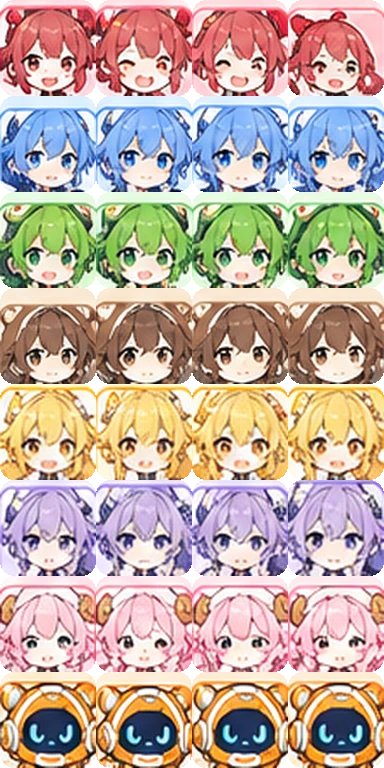
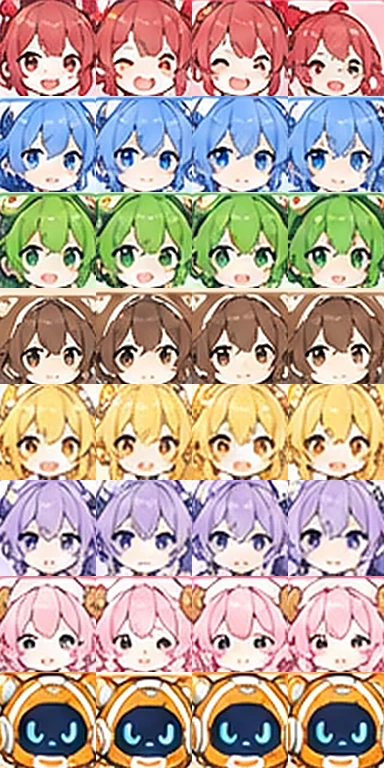
캐릭터 표정 얼굴이 깨져 보이던 것 고치기
- 표정 그림(chars_face.webp)에 섞여 있던 카드 테두리 조각을 잘라 내고 살짝 선명하게 다시 만듦
- 얼굴을 작게 그릴 때 부드럽게 줄여 그리도록(imageSmoothingQuality high)

Claude-Session: https://claude.ai/code/session_019Xjvp4u9dAV9jMhR6BEbm5

diff --git a/public/js/chars.js b/public/js/chars.js
@@ -51,13 +51,13 @@ function charImg(c, k, id, x, y, w, h) {
   const i = Math.max(0, CHARS.findIndex(ch => ch.id === id)), [cw, chh] = CHAR_CELL[k], s = Math.min(w / cw, h / chh);
   c.drawImage(CHAR_IMG[k], i * cw, 0, cw, chh, x + (w - cw * s) / 2, y + (h - chh * s) / 2, cw * s, chh * s);
 }
-// 표정(img/chars_face.webp): 캐릭터마다 한 줄에 4칸(96×96) — 0 기본 · 1 신남 · 2 아주 기쁨(승리) · 3 걱정(위험·패배)
+// 표정(img/chars_face.webp): 캐릭터마다 한 줄에 4칸(96×96, 카드 테두리 조각은 잘라 냄) — 0 기본 · 1 신남 · 2 아주 기쁨(승리) · 3 걱정(위험·패배)
 const FACE = { calm: 0, hype: 1, joy: 2, worry: 3 };
 function drawCharFace(c, id, x, y, size, expr = 0) {
   if (!charImgOk('face')) { drawChar(c, id, x, y, size, expr === 3 ? 'sad' : 'happy'); return; }
   const ch = charOf(id), i = Math.max(0, CHARS.findIndex(q => q.id === ch.id)), h = size / 2, r = size * 0.2;
   c.save(); c.beginPath(); rr(c, x - h, y - h, size, size, r); c.fillStyle = '#fff'; c.fill(); c.clip();
-  c.drawImage(CHAR_IMG.face, expr * 96, i * 96, 96, 96, x - h, y - h, size, size); c.restore();
+  c.imageSmoothingQuality = 'high'; c.drawImage(CHAR_IMG.face, expr * 96, i * 96, 96, 96, x - h, y - h, size, size); c.restore();
   c.save(); c.lineWidth = Math.max(2, size * 0.06); c.strokeStyle = '#fff'; c.beginPath(); rr(c, x - h, y - h, size, size, r); c.stroke();
   c.lineWidth = Math.max(1, size * 0.03); c.strokeStyle = ch.d; c.stroke(); c.restore();
 }
